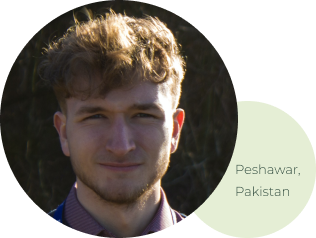
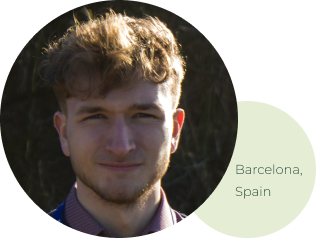
make UI Chnages

Changed region(s): [[0.7405, 0.6765, 0.9684, 0.7353], [0.7405, 0.7941, 0.9114, 0.8235]]

diff --git a/src/app/navComponents/contact/contact.component.html b/src/app/navComponents/contact/contact.component.html
@@ -10,31 +10,31 @@
         <div class="icon-background">
           <img src="/assets/img/location-icon.svg" alt="location" />
         </div>
-        <p>Lahore, Pakistan</p>
+        <p>Barcelona, Spain</p>
       </div>
       <div class="contact-details-social-icons">
         <div class="icon-background">
           <img src="/assets/img/phone-icon.svg" alt="phone" /> 
         </div>
-        <a href="tel:+923324740308">+92 332 4740 308</a>
+        <a href="tel:+34625747111">+34 625 747 111</a>
       </div>
       <div class="contact-details-social-icons">
         <div class="icon-background">
           <img src="/assets/img/skype-icon.svg" style="margin-left: -3px;" alt="skype" />
         </div>
-        <p>shahryar-baig</p>
+        <p>yasirbaigbcn@gmail.com</p>
       </div>
       <div class="contact-details-social-icons">
         <div class="icon-background">
           <img src="/assets/img/linkedin-icon.svg" alt="linkedin" />
         </div>
-        <a href="https://www.linkedin.com/in/shahryar-baig-936076145" target="_blank">shahryar-baig</a>
+        <a href="#" target="_blank">Yasir-baig</a>
       </div>
       <div class="contact-details-social-icons">
         <div class="icon-background">
           <img src="/assets/img/mail-icon.svg" style="margin-left: -3px;" alt="email" />
         </div>
-        <a href="mailto:mirzashahryarbaig@gmail.com">mirzashahryarbaig@gmail.com</a>
+        <a href="mailto:yasirbaigbcn@gmail.com">yasirbaigbcn@gmail.com</a>
       </div>
     </div>
     <div class="contact-details-avatar">
